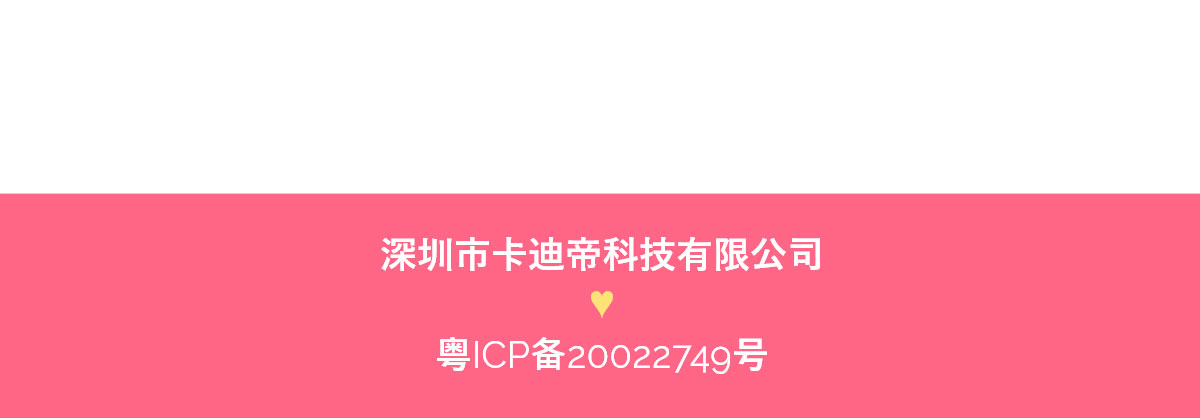
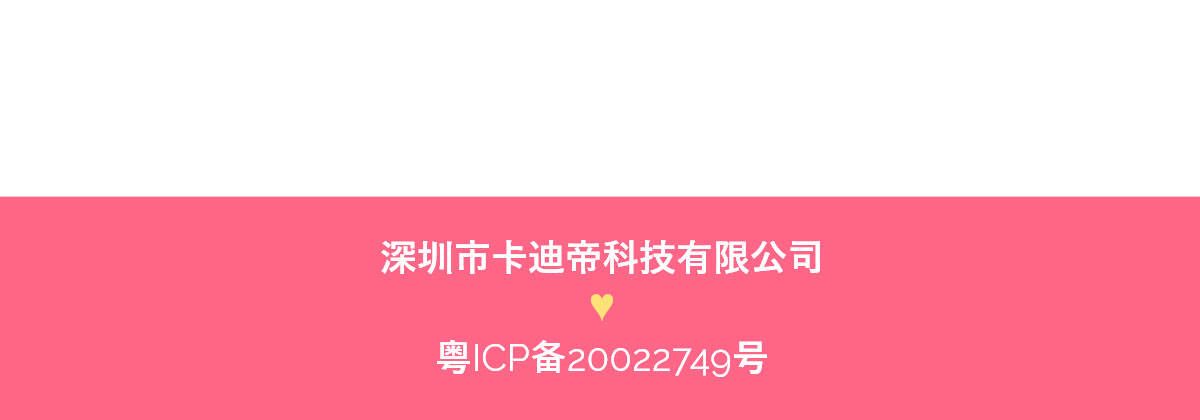
no message

diff --git a/tanxinEDM/css/main.css b/tanxinEDM/css/main.css
@@ -14,7 +14,7 @@ div {display: block;}
 @media (max-width: 1199px){
     body{background:none #FF6687;}
     #dPageHolder{max-width:1200px;}
-    #DownloadBtn{position:absolute;top:0;left:0;margin-top: 138%;margin-left: 16.3%;width:67.629%;height:auto;padding:9.823% 0 0 0;background-size:contain;cursor:pointer;}
+    #DownloadBtn{position:absolute;top:0;left:0;margin-top: 137%;margin-left: 16.3%;width:67.629%;height:auto;padding:9.823% 0 0 0;background-size:contain;cursor:pointer;}
     #DownloadBtn:hover{background-size:contain;}
     /* .downloadBtn{position:absolute;top:0;margin-top: 97%;width:43.782%;background-position:top center;background-repeat:no-repeat;background-size:contain;cursor:pointer;} */
     .part1,.part2,.part3,.part4,.part5 {padding:0;margin:-1px 0 0;width:100%;height:auto;}
